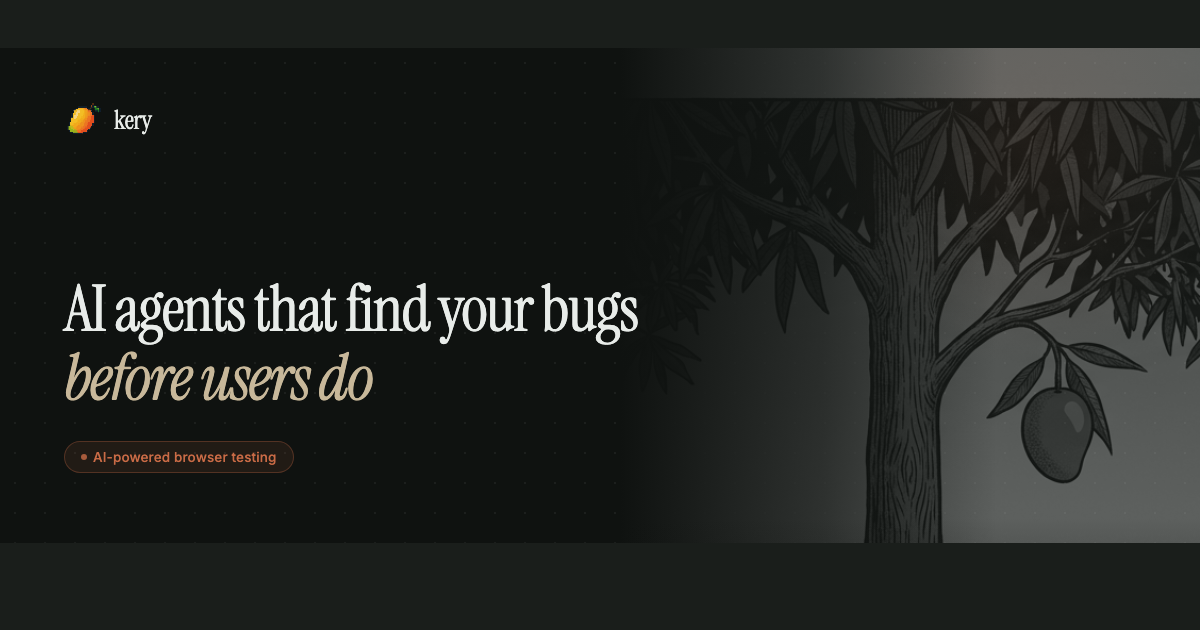
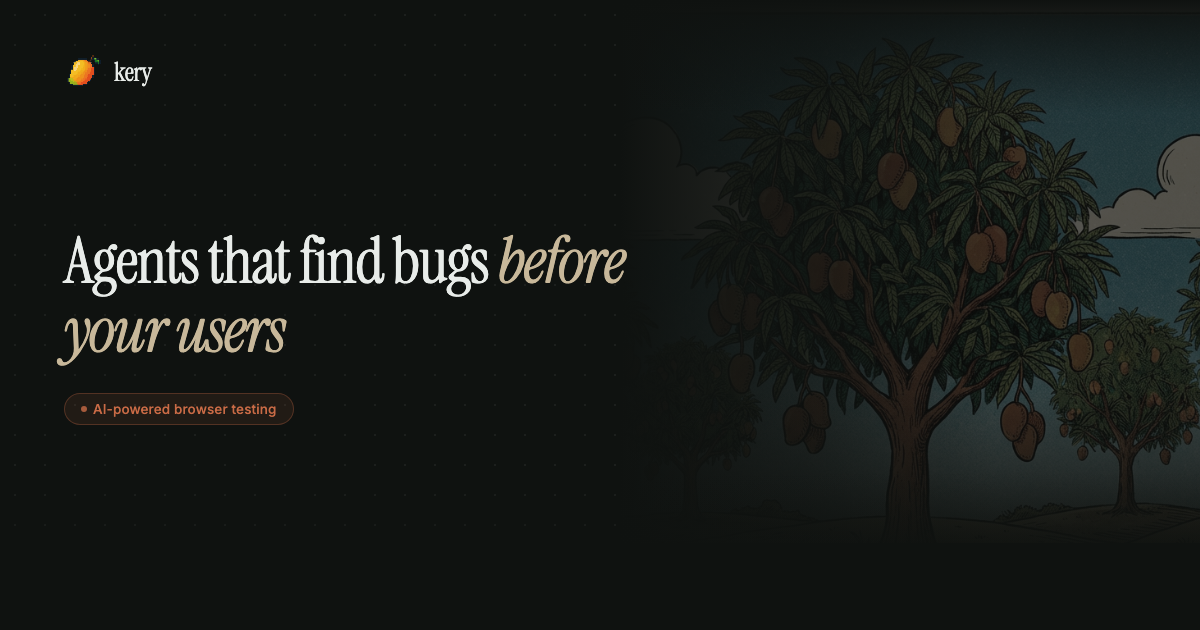
Update OG image, metadata, and hero subtitle
- Regenerate og.png with v1 mango grove, color-tinted, bars removed
- Update page title to "Kery - Ship fast. Break nothing."
- Update meta description (remove self-healing/regression references)
- Update hero subtitle to "Agents that find bugs before your users."

diff --git a/og-card.html b/og-card.html
@@ -9,15 +9,18 @@
   <style>
     * { margin: 0; padding: 0; box-sizing: border-box; }
 
+    html, body {
+      width: 1200px;
+      height: 630px;
+      overflow: hidden;
+      background: #0f1210;
+    }
+
     body {
-      background: #1a1e1b;
-      min-height: 100vh;
       display: flex;
       flex-direction: column;
-      align-items: center;
-      justify-content: center;
-      gap: 28px;
-      padding: 48px;
+      align-items: flex-start;
+      justify-content: flex-start;
     }
 
     /* ── Card ── */
@@ -47,10 +50,9 @@
       width: 580px;
       height: 100%;
       object-fit: cover;
-      object-position: center 30%;
-      opacity: 0.45;
-      mix-blend-mode: luminosity;
-      filter: contrast(0.9) brightness(0.85);
+      object-position: center 15%;
+      opacity: 0.75;
+      filter: saturate(0.6) brightness(0.42) contrast(0.95);
     }
 
     /* Gradient fade: dark left edge blending into illustration */
@@ -61,6 +63,18 @@
       width: 580px;
       height: 100%;
       background: linear-gradient(to right, #0f1210 0%, rgba(15,18,16,0.6) 35%, rgba(15,18,16,0) 65%);
+      pointer-events: none;
+    }
+
+    /* Top + bottom vignette over illustration — kills the light sky/ground edges */
+    .grove-vignette {
+      position: absolute;
+      right: 0;
+      top: 0;
+      width: 580px;
+      height: 100%;
+      background:
+        linear-gradient(to bottom, #0f1210 0%, transparent 18%, transparent 62%, #0f1210 88%, #0f1210 100%);
       pointer-events: none;
     }
 
@@ -177,31 +191,8 @@
 
     /* ── Controls (outside card) ── */
     .controls {
-      display: flex;
-      gap: 12px;
-      align-items: center;
+      display: none;
     }
-
-    .hint {
-      font-family: 'Inter', sans-serif;
-      font-size: 13px;
-      color: rgba(255,255,255,0.35);
-    }
-
-    .btn-download {
-      padding: 10px 22px;
-      background: #c96b46;
-      color: #fff;
-      border: none;
-      border-radius: 999px;
-      font-family: 'Inter', sans-serif;
-      font-size: 13px;
-      font-weight: 500;
-      cursor: pointer;
-      transition: background 0.15s;
-    }
-
-    .btn-download:hover { background: #b85c3a; }
   </style>
 </head>
 <body>
@@ -210,8 +201,9 @@
     <div class="dot-grid"></div>
     <div class="glow"></div>
 
-    <img class="grove" src="public/landing_image/v2.png" alt="">
+    <img class="grove" src="public/landing_image/v1.png" alt="">
     <div class="grove-fade"></div>
+    <div class="grove-vignette"></div>
     <div class="bottom-vignette"></div>
 
     <div class="content">
@@ -223,7 +215,7 @@
 
       <!-- Headline + badge -->
       <div class="main">
-        <h1 class="headline">AI agents that find your bugs <em>before users do</em></h1>
+        <h1 class="headline">Agents that find bugs <em>before your users</em></h1>
         <span class="badge">AI-powered browser testing</span>
       </div>
 
